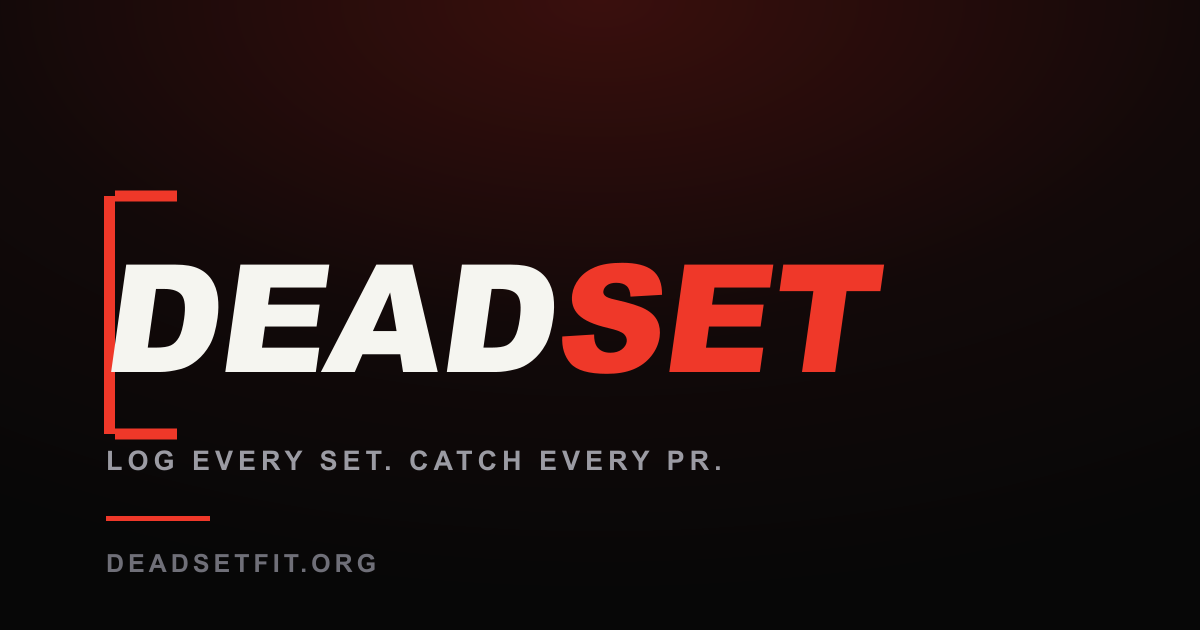
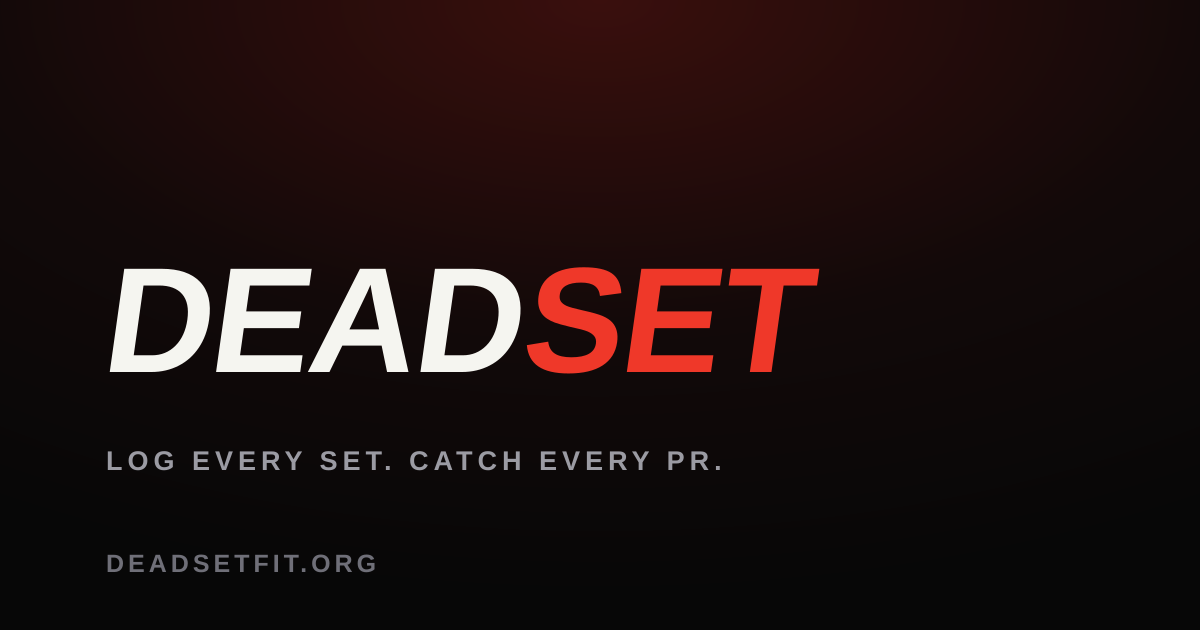
Strip the bracket motif — DEADSET wordmark only
The DS monogram was gone from the App Store icon and the loading screen,
but the red bracket it was built from was still on several surfaces, and
two places still rendered the monogram itself.

- Live Activity: RestMark.png, the badge on the Lock Screen and Dynamic
  Island during a rest timer, was still the bracketed DS. It renders at
  34pt, so it now uses the wordmark stacked over two lines — DEAD above
  SET — which stays readable at that size where the full lockup would not.
- Auth screen: dropped the red slash sitting to the left of the wordmark.
- Link preview card: removed the bracket motif and the divider rule under
  the strapline.
- Tab favicons were the last thing generating the monogram. They use the
  stacked wordmark now, and nothing produces the bracket any more.

The App Store icon is untouched and still byte-identical to the original.

Claude-Session: https://claude.ai/code/session_01KNj59THQDg5bL3BoK2Vn61

diff --git a/auth/index.html b/auth/index.html
@@ -143,14 +143,6 @@
         gap: 12px;
       }
 
-      .slash {
-        width: 4px;
-        height: 34px;
-        border-radius: 999px;
-        background: var(--red);
-        box-shadow: 0 0 18px rgba(240, 6, 6, 0.8);
-      }
-
       .brand {
         margin: 0;
         color: #fff;
@@ -694,7 +686,6 @@
       <main>
         <div class="brand-wrap">
           <div class="brand-row">
-            <span class="slash"></span>
             <h1 class="brand">DEAD<span>SET</span></h1>
           </div>
           <p class="tagline">Forge Your Body</p>
